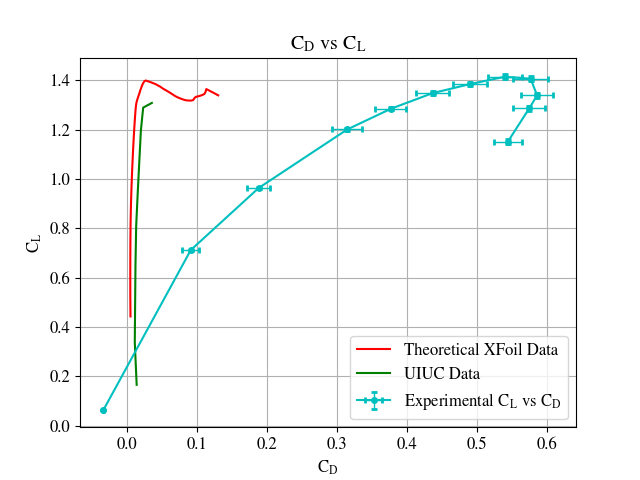
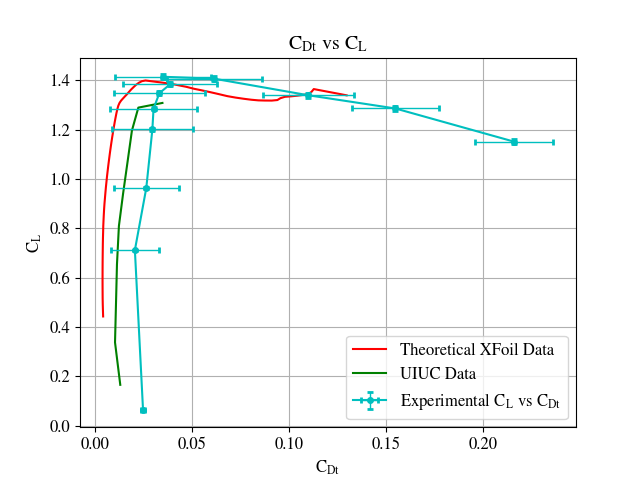
changed graphing.py

diff --git a/src/Graphing.py b/src/Graphing.py
@@ -232,14 +232,14 @@ def CoeffGraph(a: np.int32, Cl: np.array, dCl: np.array, Cd: np.array, dCd: np.a
     print(" Saving C_l-C_d.png..")
     plt.plot(xfoil_cdp, xfoil_cl, color='r')
     plt.plot(uiuc_cd, uiuc_cl2, color='g')
-    plt.errorbar(Cd, Cl, xerr=dCd, yerr=dCl, color='c', marker='.', capsize=2, elinewidth=1, markeredgewidth=2)
+    plt.errorbar(Cdt, Cl, xerr=dCd, yerr=dCl, color='c', marker='.', capsize=2, elinewidth=1, markeredgewidth=2)
     params = {'mathtext.default': 'regular'}
     plt.rcParams.update(params)
     plt.rcParams.update({'font.size': 12})
-    plt.title('$C_{D}$ vs $C_{L}$')
-    plt.xlabel('$C_{D}$')
+    plt.title('$C_{Dt}$ vs $C_{L}$')
+    plt.xlabel('$C_{Dt}$')
     plt.ylabel('$C_{L}$')
-    plt.legend(['Theoretical XFoil Data', 'UIUC Data','Experimental $C_{L}$ vs $C_{D}$'])
+    plt.legend(['Theoretical XFoil Data', 'UIUC Data','Experimental $C_{L}$ vs $C_{Dt}$'])
     plt.grid()
     plt.savefig('results\C_l-vs-C_d-graphs\C_l-C_d.png')
     plt.clf()
